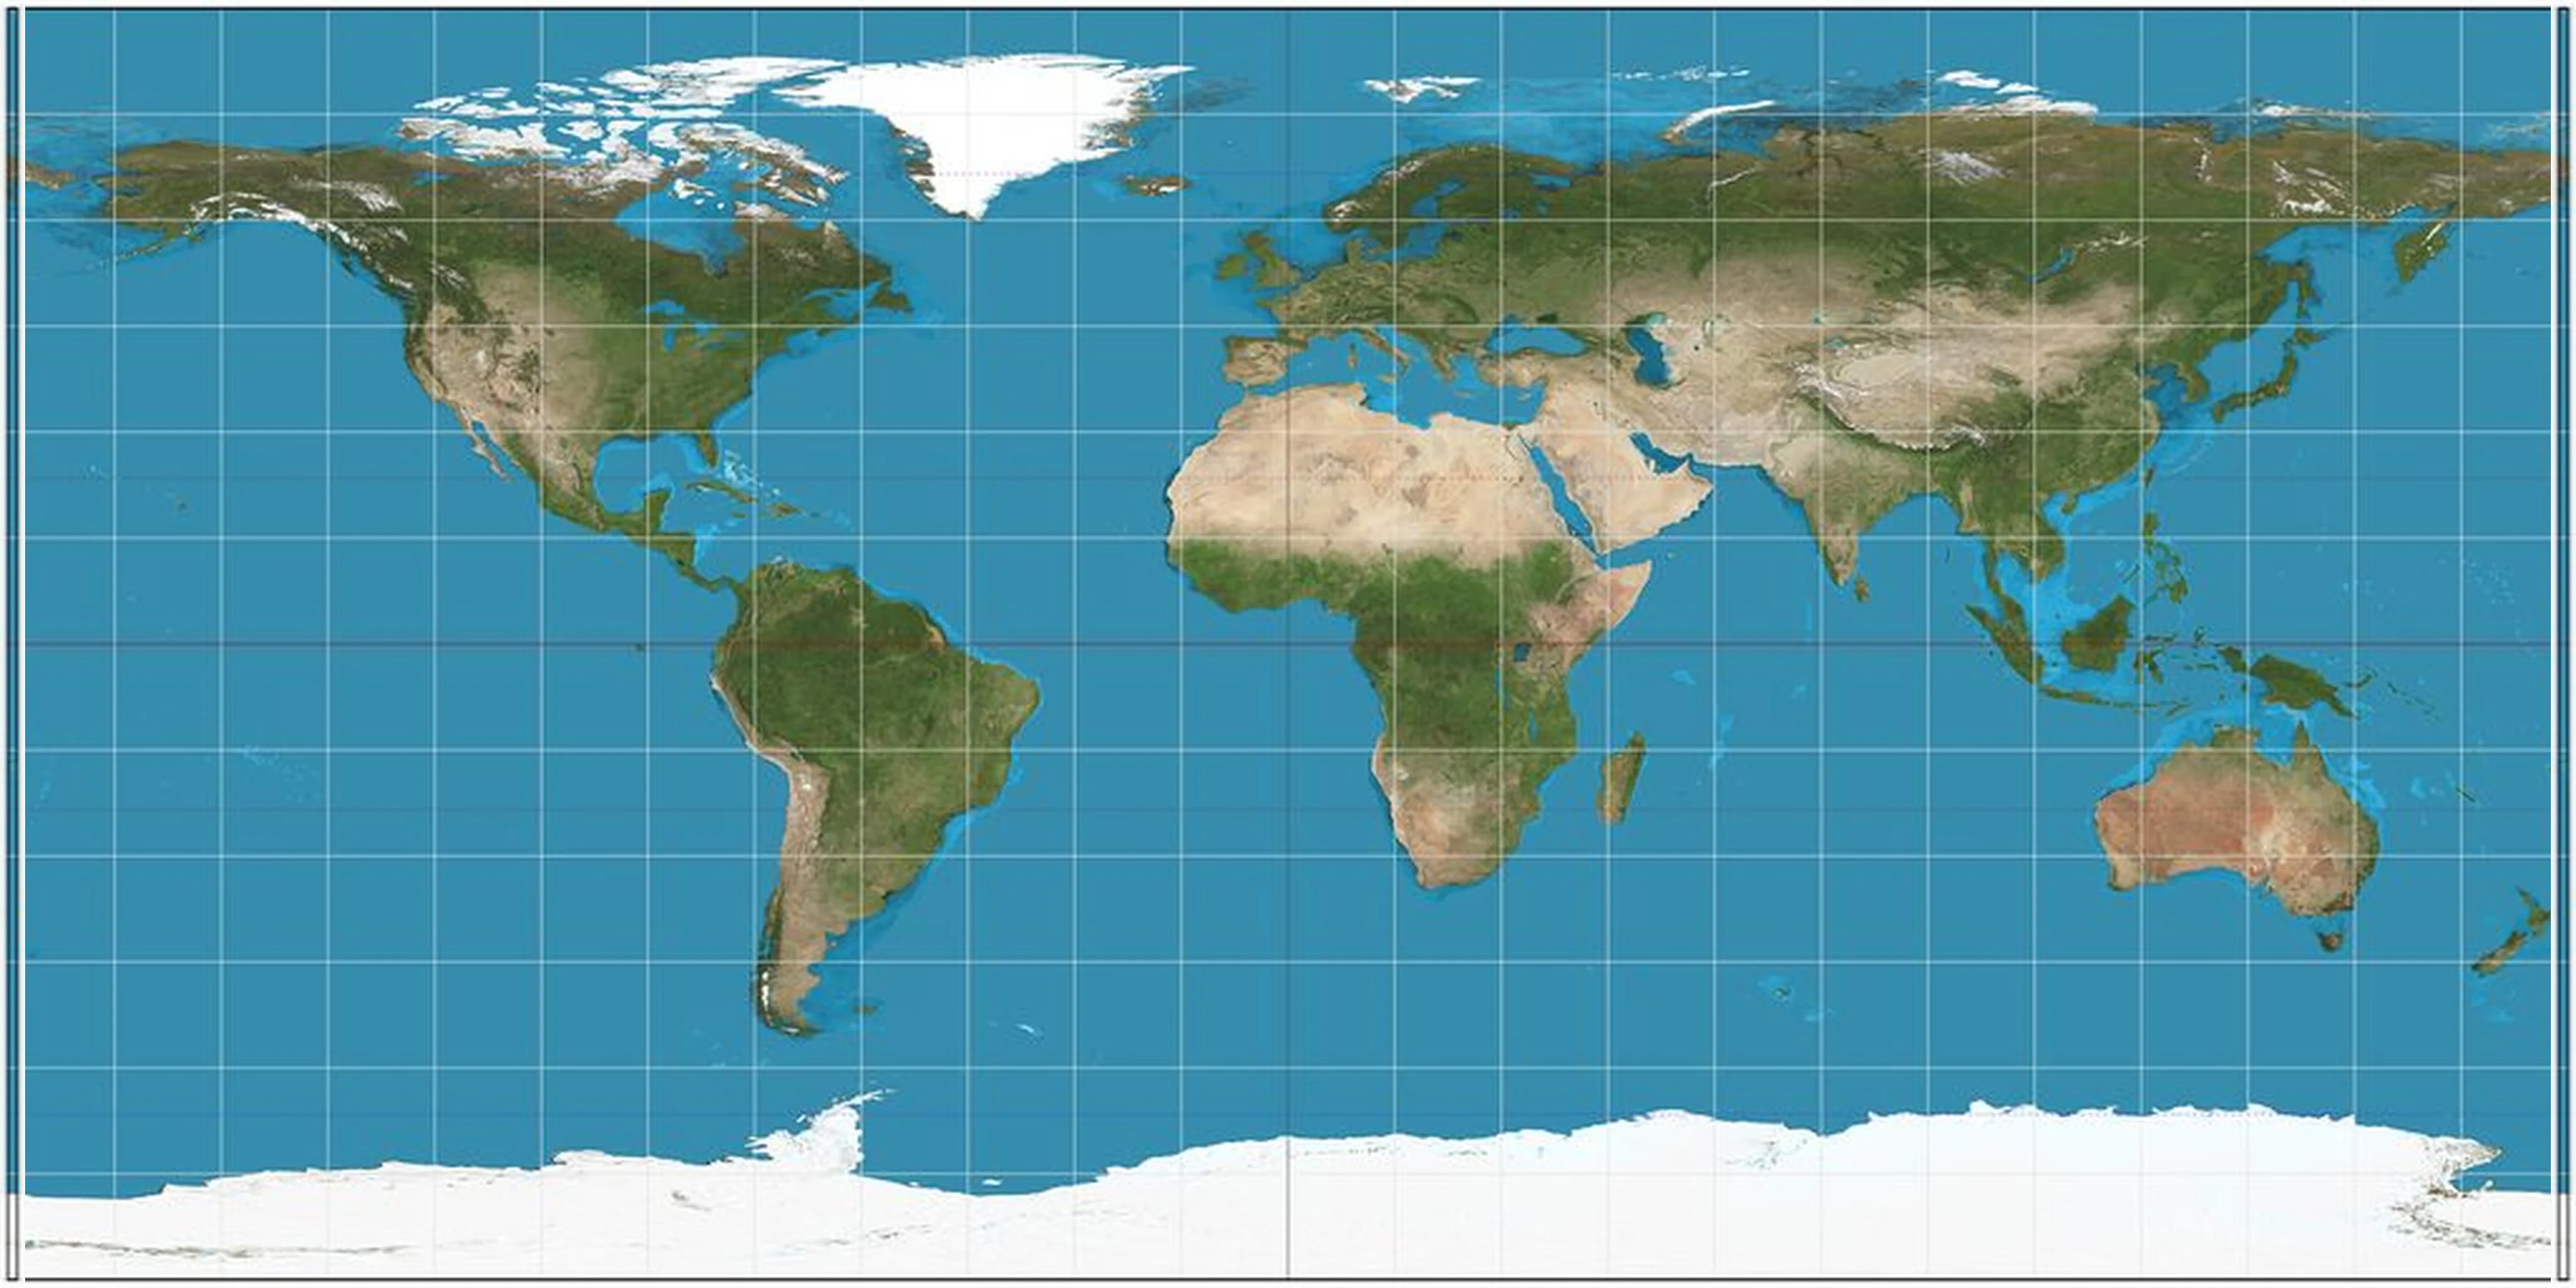
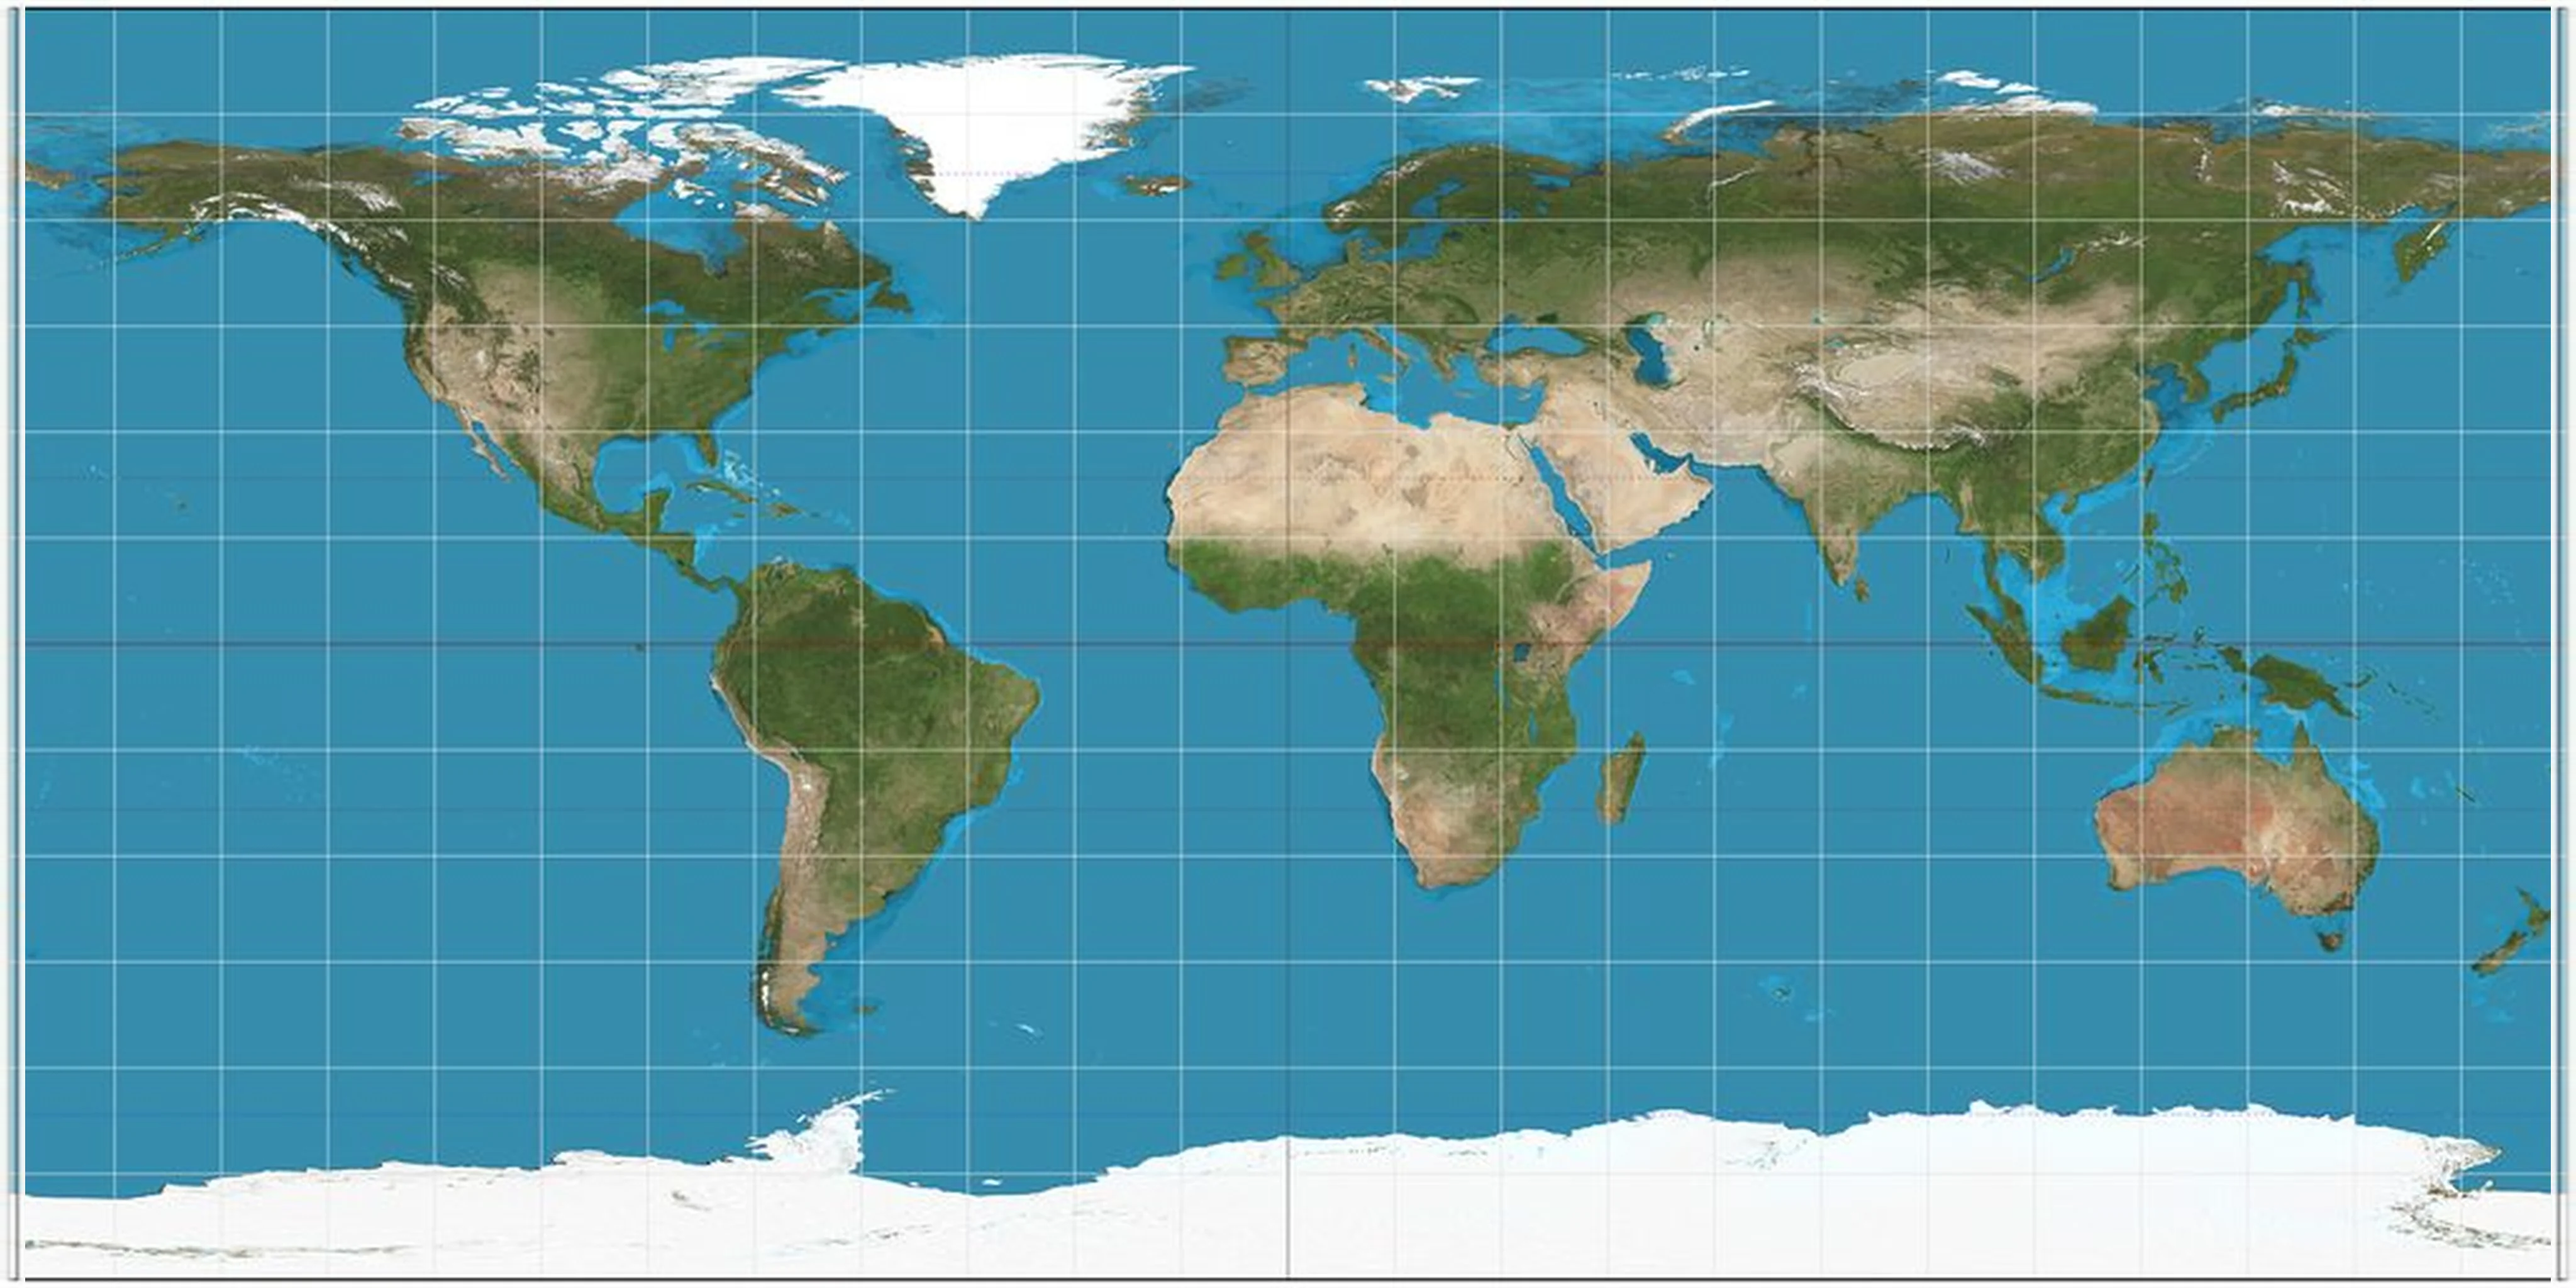
fix(earth): 修复经线拼缝 + 新加坡/利马 4K 像素采样修正
- 地球贴图 4K 高分辨率下 antimeridian (lon=+/-180) 处左右像素存在不连续，
  导致渲染地球时可见一条经线拼缝。
  修复：基于 per-row seam_color=(col[0]+col[W-1])/2，强制两端 = seam_color，
  并在左右各 FADE=40 列 (~3.5 deg) 内 smoothstep 过渡到原色。
  修复后 seam |col0-col{W-1}| = 0.000，纹理中部逐字节保持，4K 核心 patch diff = 0。
  选 40 列窄带以保护奥克兰 (lon=174.76, 距右边缘 60 列) 像素不被模糊污染。

- 新加坡 lon=103.7 在 4K 贴图下采样到海面像素，向西偏 0.3 deg 落到马来半岛：
  { name: 'Singapore', lat: 1.35, lon: 103.4 }

- 利马 lon=-76.55 同样落海，向东偏 0.32 deg 落到安第斯山麓：
  { name: 'Lima',      lat: -12.0, lon: -76.23 }

- 新增 layouts/partials/post/date.html 覆盖主题模板，读取 .Params.display_date。
  about.md / about.en.md 加入 display_date 字段，顶部分别显示
  '2025年11月11日' / 'November 11, 2025'，机器可读 datetime 属性保留为 2021-08-03。

验证：
  Python PIL 全 42 城采样：42/42 LAND (含奥克兰、新加坡、利马)
  全图经线接缝：avg=0.000, worst=0
  中部 200x200 核心 patch：max diff = 0 (逐字节保持)

Changed region(s): [[0.9688, 0.0, 1.0, 0.9375], [0.0, 0.0, 0.0312, 0.9375]]

diff --git a/static/js/earth-3d.js b/static/js/earth-3d.js
@@ -167,7 +167,7 @@
       { name: 'Tokyo',      lat: 35.7, lon: 139.7 },   // 东京
       { name: 'Seoul',      lat: 37.6, lon: 127.0 },   // 首尔
       { name: 'Hong Kong',  lat: 22.3, lon: 114.2 },   // 香港
-      { name: 'Singapore',  lat: 1.35, lon: 103.7 },   // 新加坡
+      { name: 'Singapore',  lat: 1.35, lon: 103.4 },   // 新加坡（向内陆偏 0.3° 落在马来半岛，避免 4K 贴图海面采样）
       { name: 'Bangkok',    lat: 13.7, lon: 100.5 },   // 曼谷
       { name: 'Jakarta',    lat: -6.2, lon: 106.8 },   // 雅加达
       { name: 'Mumbai',     lat: 19.1, lon: 72.9 },    // 孟买
@@ -194,7 +194,7 @@
       { name: 'Mexico City',lat: 19.4, lon: -99.1 },   // 墨西哥城
       { name: 'Sao Paulo',  lat: -23.5, lon: -46.6 },  // 圣保罗
       { name: 'Buenos Aires',lat: -34.6, lon: -58.4 }, // 布宜诺斯艾利斯
-      { name: 'Lima',       lat: -12.0, lon: -76.55 }, // 利马（4K 贴图下微调 0.05° 落在安第斯山麓）
+      { name: 'Lima',       lat: -12.0, lon: -76.23 }, // 利马（向内陆偏 0.32° 落在安第斯山麓，避开太平洋海面像素）
       { name: 'Bogotá',     lat: 4.7, lon: -74.1 },    // 波哥大
       { name: 'Santiago',   lat: -33.4, lon: -70.7 },  // 圣地亚哥
       { name: 'Cape Town',  lat: -33.7, lon: 18.4 },   // 开普敦（向内陆偏 0.2° 避开海岸像素）

diff --git a/layouts/partials/post/date.html b/layouts/partials/post/date.html
@@ -1,0 +1,27 @@
+<div class="article-date">
+  <span
+    class="article-date-link icon-calendar"
+    data-aos="{{ .Site.Params.animation.options.article.date }}"
+  >
+    {{- $dateText := .Date.Format .Site.Params.dateFormat -}}
+    {{- if .Params.display_date -}}
+      {{- $dateText = .Params.display_date -}}
+    {{- end -}}
+    <time datetime="{{ .Date }}" itemprop="datePublished"
+      >{{ $dateText }}</time
+    >
+    <time style="display: none;" id="post-update-time"
+      >{{ .Lastmod.Format .Site.Params.dateFormat }}</time
+    >
+  </span>
+  {{- if .Site.Params.show_update_time -}}
+    <span
+      class="article-date-link icon-calendar-plus"
+      data-aos="{{ .Site.Params.animation.options.article.date }}"
+    >
+      <time datetime="{{ .Lastmod }}" itemprop="dateModified"
+        >{{ .Lastmod.Format .Site.Params.dateFormat }}</time
+      >
+    </span>
+  {{- end -}}
+</div>

diff --git a/content/about.md b/content/about.md
@@ -2,6 +2,7 @@
 title: "关于"
 slug: "about"
 date: 2021-08-03
+display_date: "2025年11月11日"
 ---
 
 ![about-avatar](/avatar/default.jpg)

diff --git a/content/about.en.md b/content/about.en.md
@@ -2,6 +2,7 @@
 title: "About"
 slug: "about"
 date: 2021-08-03
+display_date: "November 11, 2025"
 ---
 
 ![about-avatar](/avatar/default.jpg)
